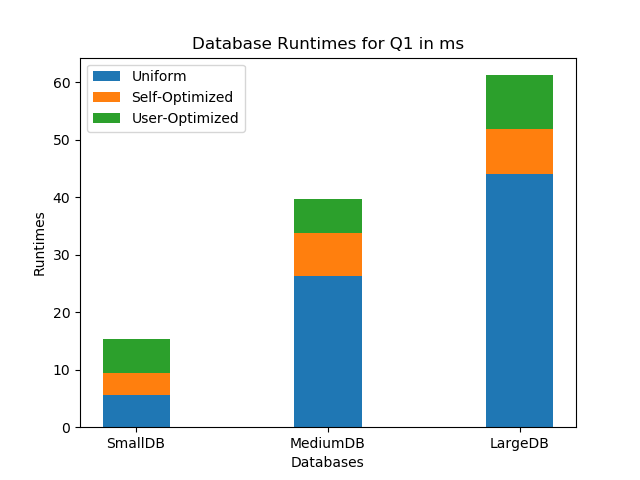
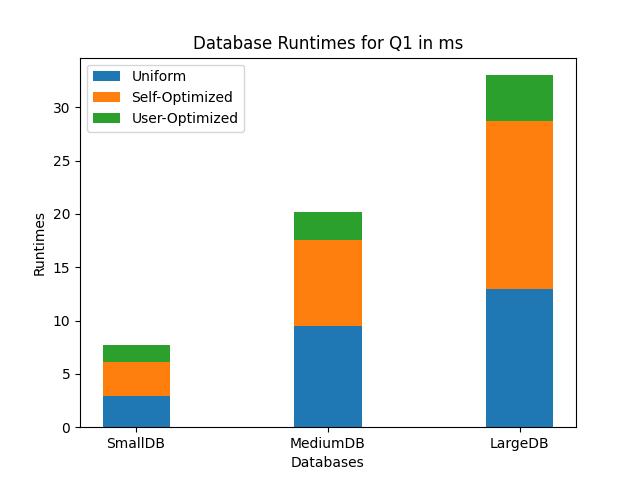
added stuff to readme, added additional index on order_items to speed up query 2 and 3

diff --git a/Q3A3.py b/Q3A3.py
@@ -67,6 +67,7 @@ def connectUserOptimizied(path):
     # Creating indexes for the customers and orders tables
     cursor.execute("CREATE INDEX IF NOT EXISTS CustomersIdx1 ON Customers(customer_postal_code, customer_id);")
     cursor.execute("CREATE INDEX IF NOT EXISTS OrdersIdx1 ON Orders(customer_id, order_id);")
+    cursor.execute("CREATE INDEX IF NOT EXISTS Order_itemsIdx1 ON Order_items(order_id);")
 
     # commit the changes we have made so they are visible by any other connections
     connection.commit()
@@ -77,7 +78,6 @@ def closeUniform():
 
     # cleaning up the tables, views and resetting the database
     cursor.execute("DROP TABLE OrderItemsNew;")
-    cursor.execute("DROP VIEW IF EXISTS OrderSize")
 
     cursor.execute("DROP TABLE Customers;")
     cursor.execute("DROP TABLE Orders;")
@@ -90,8 +90,6 @@ def closeUniform():
 
 def close():
     global connection, cursor
-
-    cursor.execute("DROP VIEW IF EXISTS OrderSize")
 
     # commiting and closing the connection
     connection.commit()
@@ -175,7 +173,6 @@ def query():
     mediumVals = [executionTimeUniformMedium, executionTimeSelfMedium, executionTimeUserMedium]
     largeVals = [executionTimeUniformLarge, executionTimeSelfLarge, executionTimeUserLarge]
 
-    print(smallVals, mediumVals, largeVals)
     # passing in the execution times to generate stacked graph
     stackedBar(smallVals, mediumVals, largeVals, "Q3")
 
@@ -196,7 +193,7 @@ def stackedBar(small, medium, large, title):
 
     ax.set_ylabel('Runtimes')
     ax.set_xlabel("Databases")
-    ax.set_title('Database Runtimes for Q2 in ms')
+    ax.set_title('Database Runtimes for Q3 in ms')
     ax.legend()
 
     path = './{}A3chart.png'.format(title)

diff --git a/Q2A3.py b/Q2A3.py
@@ -67,6 +67,7 @@ def connectUserOptimizied(path):
     # Creating indexes for the customers and orders tables
     cursor.execute("CREATE INDEX IF NOT EXISTS CustomersIdx1 ON Customers(customer_postal_code, customer_id);")
     cursor.execute("CREATE INDEX IF NOT EXISTS OrdersIdx1 ON Orders(customer_id, order_id);")
+    cursor.execute("CREATE INDEX IF NOT EXISTS Order_itemsIdx1 ON Order_items(order_id);")
 
     # commit the changes we have made so they are visible by any other connections
     connection.commit()
@@ -185,7 +186,6 @@ def query():
     mediumVals = [executionTimeUniformMedium, executionTimeSelfMedium, executionTimeUserMedium]
     largeVals = [executionTimeUniformLarge, executionTimeSelfLarge, executionTimeUserLarge]
 
-    print(smallVals, mediumVals, largeVals)
     # passing in the execution times to generate stacked graph
     stackedBar(smallVals, mediumVals, largeVals, "Q2")
 
